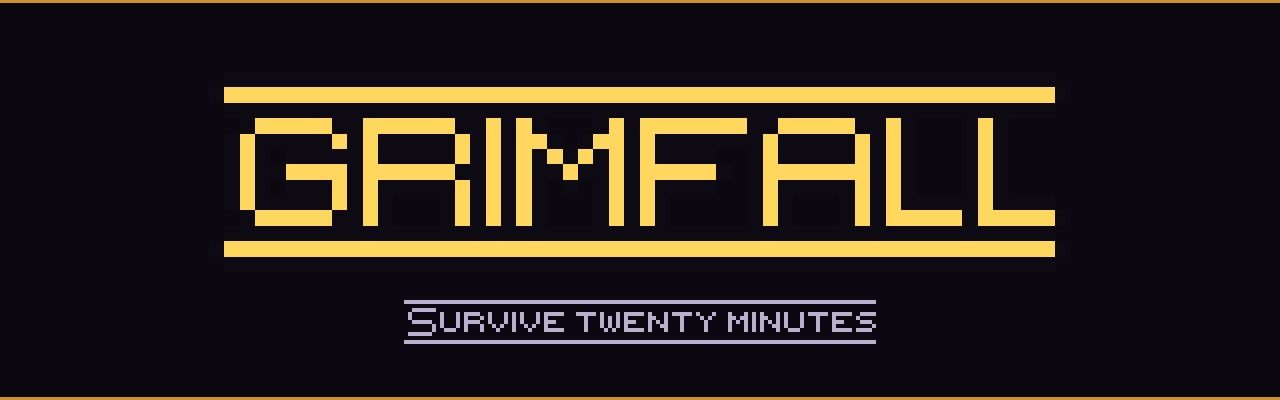
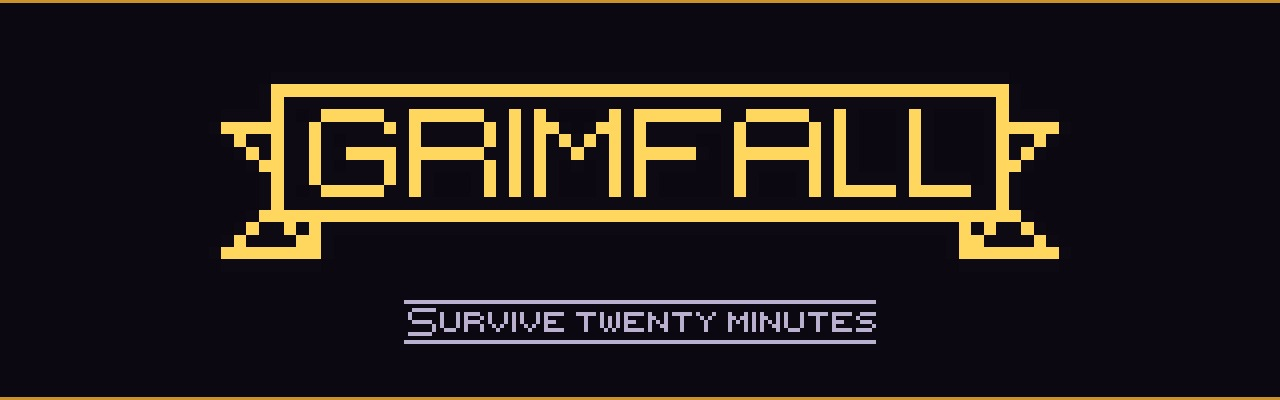
Set the wordmark in the face's own ribbon-flag ends
The banner PNG in the PixelFlag archive is a SPECIMEN sheet - it reads
"PixelFlag by Andrew McCluskey" - so it is not an asset to drop in. What it
does show is the feature the face is named for: a different banner terminal
for each bracket pair, demonstrated across its bottom row.

The mark is now set as {GRIMFALL}, which is the full hanging ribbon with
tails - the same treatment the specimen uses for its own title. The
alternatives are listed in img/SOURCE.txt; changing the pair changes
everything cut from it.

The app icon keeps bare type on purpose. It already sits inside a drawn
double rule, and a ribbon inside a frame is two borders arguing.

Sizing follows: the mark is 414x96 now, and .logo img draws each <picture>
source at its own size rather than a fraction of it - logo-small.png (a 3x
render) under 620px, logo.png (6x) above, and one exact doubling past
1000px. Every stem is the same width at every breakpoint.

Credit corrected to NAL (Andrew McCluskey) - the licence file names the
handle, the specimen names the person.

Changed region(s): [[0.1562, 0.21, 0.8438, 0.66]]

diff --git a/index.html b/index.html
@@ -92,7 +92,7 @@
         <h1 class="logo">
           <picture>
             <source media="(max-width: 620px)" srcset="img/logo-small.png">
-            <img src="img/logo.png" alt="Grimfall" width="348" height="90" fetchpriority="high" decoding="async">
+            <img src="img/logo.png" alt="Grimfall" width="414" height="96" fetchpriority="high" decoding="async">
           </picture>
         </h1>
         <p class="tagline">Twenty minutes. One hero. Everything else wants you dead.</p>
@@ -231,7 +231,7 @@
           <a href="https://creativecommons.org/licenses/by/4.0/" target="_blank" rel="noopener">CC BY 4.0</a>;
           thirty-two of them were selected and packed into one sheet, otherwise unmodified.</p>
           <p><strong>The wordmark</strong> &mdash; set in &ldquo;{PixelFlag}&rdquo; by
-          <a href="http://fontstruct.com/fontstructions/show/578475" target="_blank" rel="noopener">NAL</a>, licensed
+          <a href="http://fontstruct.com/fontstructions/show/578475" target="_blank" rel="noopener">NAL (Andrew McCluskey)</a>, licensed
           <a href="http://creativecommons.org/licenses/by/3.0/" target="_blank" rel="noopener">CC BY 3.0</a>.
           The logo, the app icons and the banners are all rendered from it.</p>
           <p><strong>The budgies</strong> &mdash; the four familiars are drawn from the

diff --git a/css/style.css b/css/style.css
@@ -500,16 +500,18 @@ i.dot-kill { background: var(--blood); }
 }
 .logo img {
   display: block;
-  /* The mark is 348x90 of pixel art. Widths are held to whole multiples of its
-     own size so it is only ever drawn at 1x, 2x or 3x — a wordmark scaled to
-     2.4x has every other stem a pixel wider than its neighbour, which is what
-     makes upscaled pixel type look broken. */
-  width: 348px;
-  max-width: 88vw;
+  /* Drawn at its OWN size, never a fraction of it. The <picture> above swaps in
+     logo-small.png (207x48, a 3x render) under 620px and logo.png (414x96, 6x)
+     above it, so `width: auto` means each one lands 1:1 and every stem is the
+     same width. A wordmark scaled to 2.4x has every other stem a pixel fatter
+     than its neighbour, which is what makes upscaled pixel type look broken.
+     The one doubling below is exact. */
+  width: auto;
+  max-width: 92vw;
   height: auto;
   animation: logoIn 1.1s cubic-bezier(.2,.9,.25,1) both;
 }
-@media (min-width: 900px) { .logo img { width: 696px; } }
+@media (min-width: 1000px) { .logo img { width: 828px; } }
 @keyframes logoIn {
   from { opacity: 0; transform: translateY(-14px) scale(0.97); }
   to   { opacity: 1; transform: none; }

diff --git a/tools/assets/build-logo.py b/tools/assets/build-logo.py
@@ -46,7 +46,13 @@ GOLD_DEEP = (201, 146, 42)
 INK = (13, 10, 20)
 VOID = (11, 8, 18)
 
-WORD = "GRIMFALL"
+# The braces are not punctuation — they are the face's FLAG ENDS. PixelFlag
+# draws a different banner terminal for each bracket pair, and `{}` is the full
+# hanging ribbon with tails, which is the treatment the font's own specimen
+# sheet uses for its title. `[]` closes the box, `()` rounds it, `<>` pins the
+# corners like a plaque, `||` and `//` are plainer still. Swap the pair here to
+# change the whole mark.
+WORD = "{GRIMFALL}"
 
 
 def face(size=BASE):
@@ -111,6 +117,8 @@ def stacked_mark(scale, box):
     on two lines and framed - which is also the only place the interface's own
     frame art appears outside the interface.
     """
+    # No flag ends here. The icon already sits inside a drawn double rule, and a
+    # ribbon inside a frame is two borders arguing with each other.
     top = draw_word("GRIM")
     bot = draw_word("FALL")
     gap = 3

diff --git a/README.md b/README.md
@@ -127,7 +127,7 @@ required; it is credited anyway.
 > icons were selected and packed into a single 128×64 atlas. The artwork itself
 > is unmodified — no recolouring, no rescaling. Full terms in `img/ui/SOURCE.txt`.
 
-**The wordmark** — set in *"{PixelFlag}"* by **NAL**, built with FontStruct,
+**The wordmark** — set in *"{PixelFlag}"* by **NAL (Andrew McCluskey)**, built with FontStruct,
 <http://fontstruct.com/fontstructions/show/578475>, licensed
 [CC BY 3.0](http://creativecommons.org/licenses/by/3.0/). The logo, both app
 icons and both repository banners are rendered from it by
